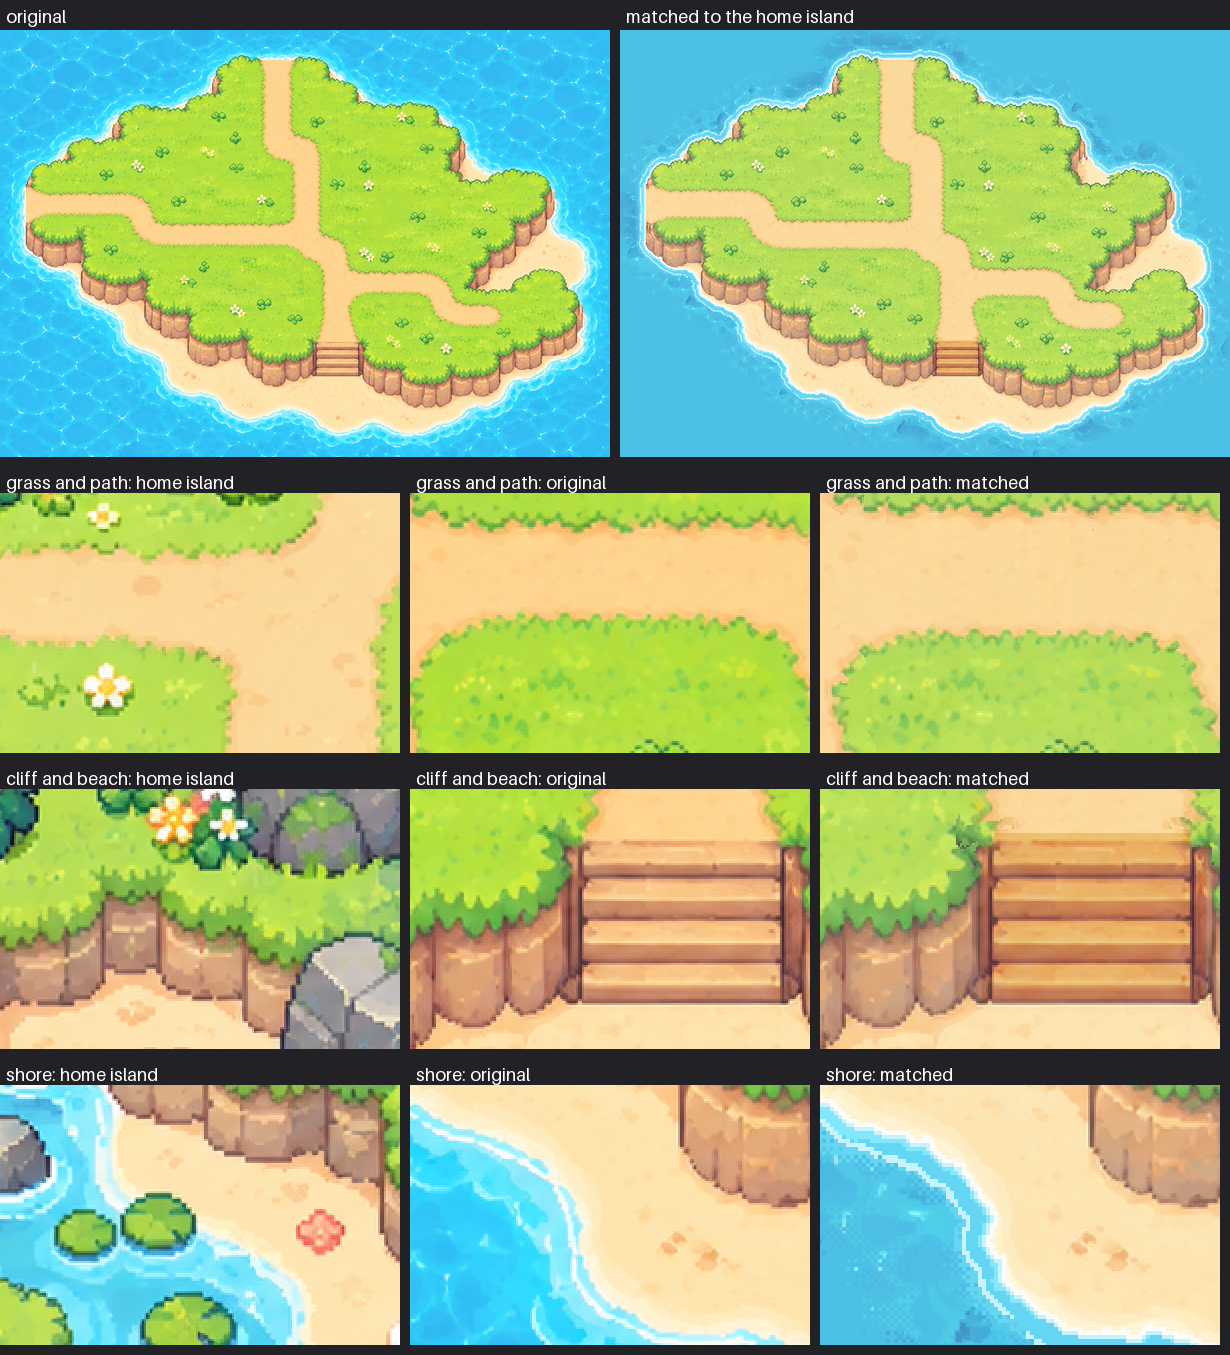
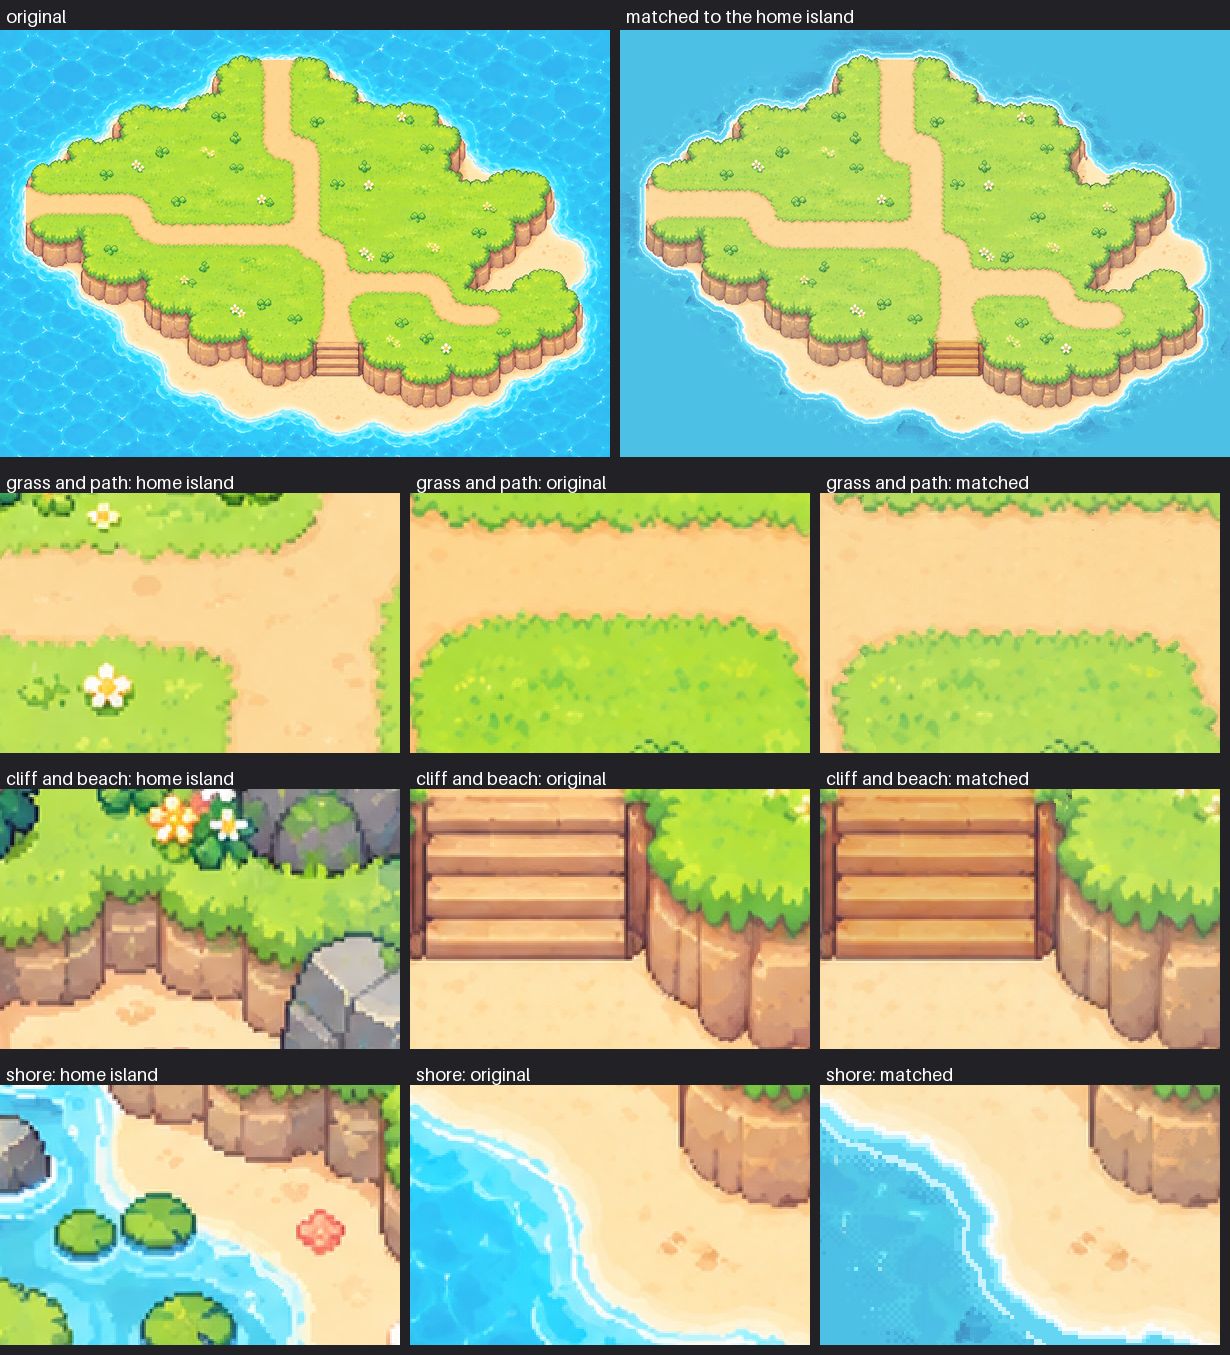
Add the islets from ChatGPT, matched to the home island, and put them on the map
- source_art/archipelago/ground/islets.png: ChatGPT's picture of 8 small islands
  (islets_no_water.png came in the same zip; it's a different drawing, kept as a spare)
- public/world/islands/islets.png: matched with tools/match_island.py (0 things to fix,
  down from 5); 42 px of sea added all round
- review_island.py: sand must be yellow-beige (hue above 28) so pale cliff faces aren't
  taken for sand; small pale specks in the grass aren't paths; counts every island
- match_island.py: the check sheet shows a grass close-up when an island has no paths
- world_preview.py: cuts the islets apart and spreads them over open sea, clear of the
  islands and the boat's channel (for the picture only; they have no planned place yet)
- The campfire and meadow pieces were remade with the new sand rule (cliff highlights
  are kept now); both still check out at 0 things to fix
- HANDOFF.md: 3 of 6 island pictures done

Claude-Session: https://claude.ai/code/session_019WA1pPMdMXVRsKT4arc6i6

Changed region(s): [[0.3089, 0.5579, 1.0, 0.7749], [0.5252, 0.155, 0.5561, 0.186]]

diff --git a/tools/world_preview.py b/tools/world_preview.py
@@ -7,6 +7,7 @@ Run from the game folder:  python tools/world_preview.py   ->  check/world_now.p
   place from tools/review_island.py's PLANNED
 - islands still to come: their concept pictures, faint, in their planned places
 - the planned bridges as dashed lines, between the nearest shores of each pair of islands
+- the islets (public/world/islands/islets.png), each placed in open sea for this picture only
 - the sea between the islands, sewn from the home island's open water, like the pieces' open water
 The picture is half size (the big map is 4608 x 3456), with names and a short legend.
 """
@@ -104,6 +105,58 @@ def open_sea():
     return quilt(home, ok, WH // 2, WW // 2, block=24, overlap=6, tries=300, seed=7)
 
 
+def split_islets(path):
+    """Each islet of the matched islets picture as its own piece (its land and its own shore water),
+    biggest first."""
+    rgba = np.array(Image.open(path).convert("RGBA"))
+    land = ndimage.binary_opening((rgba[..., 3] == 255) & ~water_of(rgba[..., :3]), iterations=2)
+    lab, n = ndimage.label(land)
+    sizes = ndimage.sum(land, lab, range(1, n + 1))
+    out = []
+    for i in 1 + np.flatnonzero(sizes >= 2000):
+        mine = lab == i
+        near = ndimage.distance_transform_edt(~mine) <= 84
+        ys, xs = np.nonzero(near)
+        box = (slice(ys.min(), ys.max() + 1), slice(xs.min(), xs.max() + 1))
+        piece = rgba[box].copy()
+        piece[..., 3] = np.where(near[box], piece[..., 3], 0)
+        out.append((piece, mine[box]))
+    return sorted(out, key=lambda t: -t[1].sum())
+
+
+def place_islets(islets, pieces, q=8):
+    """For this picture only (the islets have no planned place yet): put each islet, biggest first,
+    in the most open sea left, clear of every island and of the boat's route south of the home dock."""
+    h, w = WH // q, WW // q
+    busy = np.zeros((h, w), bool)
+    for name, rgba, (x, y), land, made in pieces:
+        ys, xs = np.nonzero(land[::q, ::q])
+        ys, xs = ys + y // q, xs + x // q
+        ok = (ys >= 0) & (xs >= 0) & (ys < h) & (xs < w)
+        busy[ys[ok], xs[ok]] = True
+    busy = ndimage.binary_dilation(busy, iterations=160 // q)
+    bx, by = HOME_AT[0] + 905, HOME_AT[1] + 950            # the home dock: the boat rows 330 px south
+    busy[(by - 60) // q:(by + 420) // q, (bx - 120) // q:(bx + 120) // q] = True
+    placed = []
+    for piece, land in islets:
+        fp = ndimage.binary_dilation(land[::q, ::q], iterations=60 // q)
+        fh, fw = fp.shape
+        free = ~ndimage.binary_dilation(busy, structure=fp[::-1, ::-1])
+        free[: fh // 2 + 1] = free[-(fh - fh // 2) - 1:] = False
+        free[:, : fw // 2 + 1] = free[:, -(fw - fw // 2) - 1:] = False
+        if not free.any():
+            continue
+        room = np.where(free, ndimage.distance_transform_edt(~busy), -1)
+        cy, cx = np.unravel_index(int(np.argmax(room)), room.shape)
+        top, left = cy - fh // 2, cx - fw // 2
+        placed.append((piece, land, (left * q, top * q)))
+        grown = ndimage.binary_dilation(np.pad(fp, 160 // q), iterations=160 // q)
+        y0, x0 = top - 160 // q, left - 160 // q
+        sy, sx = slice(max(0, y0), min(h, y0 + grown.shape[0])), slice(max(0, x0), min(w, x0 + grown.shape[1]))
+        busy[sy, sx] |= grown[sy.start - y0:sy.stop - y0, sx.start - x0:sx.stop - x0]
+    return placed
+
+
 def dashed(d, a, b, width, dash=40, gap=26):
     (x0, y0), (x1, y1) = a, b
     length = float(np.hypot(x1 - x0, y1 - y0))
@@ -138,6 +191,11 @@ def main():
         else:
             rgba, land = ghost(name, size)
             pieces.append((name, rgba, at, land, False))
+
+    islets_file = ISLANDS_DIR / "islets.png"
+    if islets_file.exists():
+        for piece, land, at in place_islets(split_islets(islets_file), pieces):
+            pieces.append(("islet", piece, at, land, True))
 
     # land of everything that exists, for the sea's shallows and foam
     for name, rgba, (x, y), land, made in pieces:
@@ -174,6 +232,8 @@ def main():
     d = ImageDraw.Draw(view)
     big, small_font = text_font(34), text_font(24)
     for name, rgba, (x, y), land, made in pieces:
+        if name == "islet":
+            continue
         ys, xs = np.nonzero(land)
         cx = (x + (xs.min() + xs.max()) / 2) / 2
         ty = (y + ys.min()) / 2 + 10
@@ -186,11 +246,13 @@ def main():
             d.text((cx - w / 2, ty + dy), text, fill="white", font=font)
     head = Image.new("RGB", (view.width, 96), (34, 34, 38))
     hd = ImageDraw.Draw(head)
-    made_n = sum(1 for p in pieces if p[4]) - 1
+    made_n = sum(1 for n in NEW if (ISLANDS_DIR / f"{n}.png").exists()) + islets_file.exists()
     hd.text((20, 12), f"Big Sunny Meadow now: {made_n} of {len(NEW) + 1} new island pictures done",
             fill="white", font=text_font(36))
-    hd.text((20, 58), "Faint = concept picture of an island still to make.  Dashed = a bridge to build.  "
-            "The islets (a sheet of small islands) have no place yet.", fill=(210, 210, 210), font=text_font(22))
+    islets_note = ("The small islets are placed automatically, for this picture only." if islets_file.exists()
+                   else "The islets (a sheet of small islands) have no place yet.")
+    hd.text((20, 58), "Faint = concept picture of an island still to make.  Dashed = a bridge to build.  " + islets_note,
+            fill=(210, 210, 210), font=text_font(22))
     sheet = Image.new("RGB", (view.width, view.height + head.height))
     sheet.paste(head, (0, 0))
     sheet.paste(view, (0, head.height))

diff --git a/tools/review_island.py b/tools/review_island.py
@@ -80,23 +80,26 @@ def materials(img):
     white = (v > 0.88) & (s < 0.12)
     water = ((h > 170) & (h < 215) & (s > 0.15)) | white
     grass = (h > 55) & (h < 130) & (s > 0.2) & (v > 0.72)
-    sandy = (h > 20) & (h < 55) & (s > 0.12) & (s < 0.56) & (v > 0.86)
+    # sand is yellow-beige (hue above 28); even pale cliff faces are more orange than that
+    sandy = (h > 28) & (h < 55) & (s > 0.12) & (s < 0.56) & (v > 0.86)
     cliff = (h < 40) & (s > 0.25) & (v > 0.35) & (v < 0.95) & ~sandy
     # a path runs between grass: sand bordered mostly by grass is path, and sand bordered mostly by
     # cliffs and sea is beach (a path can run right down to the sea, and paths and beaches can be
     # painted in nearly the same colour, so neither tells them apart)
     beach = np.zeros_like(sandy)
-    path = sandy
+    specks = np.zeros_like(sandy)
     greenish = (h > 55) & (h < 170) & (s > 0.2) & (v > 0.25)  # grass, including its dark edge lines
-    lab, n = ndimage.label(path)
+    lab, n = ndimage.label(sandy)
     for i, sl in enumerate(ndimage.find_objects(lab), 1):
-        sl = tuple(slice(max(0, s.start - 14), s.stop + 14) for s in sl)
+        sl = tuple(slice(max(0, q.start - 14), q.stop + 14) for q in sl)
         part = lab[sl] == i
         # look 5-12 px out, past the thin blend line along a path's edge
         ring = ndimage.binary_dilation(part, iterations=12) & ~ndimage.binary_dilation(part, iterations=5)
         if greenish[sl][ring].mean() < 0.4:
             beach[sl] |= part
-    return {"grass": grass, "path": sandy & ~beach, "sand": beach, "cliff": cliff, "water": water & ~white}
+        elif part.sum() < 400:
+            specks[sl] |= part      # a pale speck in the grass is not a path (match_island.py agrees)
+    return {"grass": grass, "path": sandy & ~beach & ~specks, "sand": beach, "cliff": cliff, "water": water & ~white}
 
 
 def texture(img, mask, win=16):

diff --git a/tools/match_island.py b/tools/match_island.py
@@ -478,7 +478,11 @@ def before_after(img, rgba, home, seg):
         y, x = np.unravel_index(int(np.argmax(sc)), sc.shape)
         return int(x), int(y)
     edge = ndimage.binary_dilation(seg["path"], iterations=4) & ndimage.binary_dilation(seg["grass"], iterations=4)
-    rows = [("grass and path", (560, 470), window(edge)),
+    if edge.any():
+        first = ("grass and path", (560, 470), window(edge))
+    else:                                   # no paths (like the islets): just grass
+        first = ("grass", (1022, 440), window(seg["grass"] & ~ndimage.binary_dilation(~seg["grass"], iterations=8)))
+    rows = [first,
             ("cliff and beach", (1150, 700), window(seg["cliff"] | seg["stairs"])),
             ("shore", (60, 660), window(ndimage.binary_dilation(seg["sea"], iterations=6) & seg["beach"]))]
     parts = [top]

diff --git a/HANDOFF.md b/HANDOFF.md
@@ -6,17 +6,18 @@ The folder is also on GitHub now: `paper-rockets/pixel-world`, work branch `clau
 
 ## Right now
 
-**2 of the 6 new island pictures are done and matched to the home island. Next: the other four, then the bridges, waterfalls and campfire pieces.**
+**3 of the 6 new island pictures are done and matched to the home island. Next: the other three (each has a pond or soil beds, which `match_island.py` can't handle yet), then the bridges, waterfalls and campfire pieces.**
 
 | Island | Made by | Original check | After `match_island.py` |
 |---|---|---|---|
 | south-west campfire (`sw_campfire`) | Codex | 6 to fix | 0 to fix (cliffs are still Codex's rounded blocks, in the home island's tan) |
 | south-east meadow (`se_meadow`) | ChatGPT image generation | 5 to fix | 0 to fix |
+| islets (`islets`, 8 small islands in one picture) | ChatGPT image generation | 5 to fix | 0 to fix |
 
 - **Campfire** (`check/review_sw_campfire.png`, `check/match_sw_campfire.png`): Codex's grass was too strong and flat, the cliffs round orange boulders, the water flat, and the path (~40 px) and stairs (~50 px) only as wide as the capybara. The user asked whether Claude could fix it instead of Codex: `match_island.py` fixed everything but the rounded cliff blocks. Rebuilding those from the home island's slabs looked worse (streaky), so it was dropped.
 - **Meadow** (`check/review_se_meadow.png`, `check/match_se_meadow.png`): the user was away from Codex and used ChatGPT with `concepts/archipelago/CHATGPT_2_se_meadow.md` and three numbered reference pictures. It came out much closer than Codex's first try: ground only, flat tan slab cliffs, textured grass, wide stairs. It needed stronger colours softened, paths widened from ~46 to ~62 px, and 26 px of sea added around it (the land came within 58 px of the picture's edge). The user's zip (`island_ground_only_complete_set.zip`) also had `se_meadow_alt_no_water.png`: that is a different drawing, not a cut-out of `se_meadow.png` (tall pillar cliffs, a small rock, no stairs, land almost touching the edges). It's kept as a spare and not used.
-- **In progress: the islets**, with ChatGPT: `concepts/archipelago/CHATGPT_3_islets.md` (three numbered reference pictures; ChatGPT hands back a zip with just `islets.png`). Both tools now handle several islands in one picture.
-- **Next islands:** `w_caves_pinktree` (has a pond), `n_orchard` (tilled soil beds), `ne_pond` (a pond) and `islets`. `match_island.py` can't handle ponds or soil yet (see "Fixing new island art"), so either add that first or do `islets` next. Reuse the ChatGPT prompt shape: numbered reference pictures, "picture 1, 2, 3", ground only, the sizes stated against the pictures, and "give it to me as a .zip with just this one picture inside" (the user asked for zips; they come back through the chat as uploads).
+- **Islets** (`check/review_islets.png`, `check/match_islets.png`): ChatGPT with `concepts/archipelago/CHATGPT_3_islets.md`. Eight round grassy islands with slab cliffs and sand rims, close to the style on the first try. They needed softer colours, the home island's water, and 42 px of sea added (land came within 43 px of the edge). The zip (`islets_complete_package_clean.zip`) also had `islets_no_water.png`, though the prompt asked for one picture: the same layout but a different drawing (bigger islands, taller cliffs, wide sand). It's kept as a spare and not used. The islets have no planned place yet; `world_preview.py` scatters them into open sea for the picture only.
+- **Next islands:** `w_caves_pinktree` (has a pond), `n_orchard` (tilled soil beds) and `ne_pond` (a pond). `match_island.py` can't handle ponds or soil yet (see "Fixing new island art"), so add that when the picture comes in, before trusting its output. Reuse the ChatGPT prompt shape: numbered reference pictures, "picture 1, 2, 3", ground only, the sizes stated against the pictures, and "give it to me as a .zip with just this one picture inside" (the user asked for zips; they come back through the chat as uploads).
 - Other prompts on file: `concepts/archipelago/CODEX_2_next_island.md` (the meadow for Codex, with the updated style rules), and `concepts/archipelago/CODEX_FIX_1_sw_campfire.md` (a Codex redraw of the campfire island, if flat-slab cliffs are ever wanted there). `concepts/archipelago/CODEX_PROMPT.md` has the measured palette, the cliff shape, the texture rule, and the real path and stair widths.
 - The game itself is the normal small Sunny Meadow and works. Both published links were updated on 2026-09-28 with the hiding-spot wiggle fix (Lost Ducklings version 9, Orange Garden version 5).
 
@@ -88,7 +89,9 @@ python tools/match_island.py source_art/archipelago/ground/<name>.png --masks  #
 - Saves the island's piece for the big map: its land plus its shore water, fading out by 80 px. If the land comes closer than that to the picture's edge, sea is added all round, and `public/world/islands/<name>.json` says by how much (`pad`: the piece's top-left moves up and left by that much).
 - Grass or path texture that is already close to the home island's is kept; only a flat fill is replaced.
 - Per island settings go in `ISLANDS` at the top of the file: boxes around stairs (they can't be told from cliffs by colour), how far to widen the paths, and how wide to make the stairs. Check `--masks` for a new island first.
-- See the whole map with `python tools/world_preview.py` (about a minute). Its sea is sewn from the home island's open water, as planned for the real map, so the pieces fade into it without a seam.
+- Several islands in one picture work (the islets): both tools keep every island bigger than 2% of the largest, and the check sheet shows a grass close-up when there's no path.
+- Sand is told from pale cliff faces by hue: sand is yellow-beige (hue above 28), while even the palest cliffs are more orange. Pale specks in the grass smaller than 400 px aren't paths.
+- See the whole map with `python tools/world_preview.py` (about a minute). Its sea is sewn from the home island's open water, as planned for the real map, so the pieces fade into it without a seam. The islets picture is cut into single islands and each is dropped into the most open sea, clear of the islands and of the boat's channel.
 - Not handled yet: ponds and streams (inland water is taken for land), and ground the home island doesn't have (like tilled soil). Add those before running it on `w_caves_pinktree`, `ne_pond` or `n_orchard`.
 
 **Publishing:** do this for both pages after every change, because they share code.
@@ -145,7 +148,7 @@ Then publish with the Artifact tool: `file_path` = that `index.html`, `root` = `
 11. **Codex doesn't follow bare numbers or palettes closely.** Asked for 90–110 px paths, it drew about 40, and it painted stronger colours than the palette it was given. Give every size a thing to match in `tiny_map.png` ("as wide as the path from the house to the dock"), and measure what comes back with `tools/review_island.py` instead of judging by eye.
 12. **Fix Codex's colours and texture in code, not its shapes.** Recolouring and sewing texture from the home island's own pixels match well; that isn't the rejected "ground painted in code", because every textured pixel comes from `tiny_map.png`. Widening paths and stairs also works. Redrawing shapes doesn't: rebuilding the cliffs from the home island's slabs came out streaky. Ask Codex for shapes.
 13. **Tell path from beach by what borders the sand, not by its colour.** Sand bordered mostly by grass is path; sand bordered by cliffs and sea is beach. ChatGPT paints the two nearly the same colour, and the old colour split gave different answers from run to run.
-14. **Image generators' "extra versions" can be different drawings.** ChatGPT's "transparent" meadow had other paths, tall pillar cliffs and a rock. Compare every file before using it.
+14. **Image generators' "extra versions" can be different drawings.** ChatGPT's "transparent" meadow had other paths, tall pillar cliffs and a rock, and its "no water" islets had other island shapes. It added the islets one even when asked for a single picture. Compare every file before using it.
 
 ## Known small issues
 
@@ -181,6 +184,7 @@ Then publish with the Artifact tool: `file_path` = that `index.html`, `root` = `
 | north | (1500, 60) |
 | north-east (tall) | (3000, 60) |
 | south-east | (3100, 1560) |
+| islets | not placed yet: cut `public/world/islands/islets.png` into single islands and spread them over open sea |
 
 - **Bridges:** home to west, west to north, north to north-east, north-east to south-east, south-east to home, and west to south-west. That makes loops with no dead ends.
 - **Home island bridge points:** west shore at picture (40, 460) and east shore at (1440, 420). Both are an easy walk from the house. A north bridge would be hidden behind the house, and its area is only reachable the long way round the pen.
